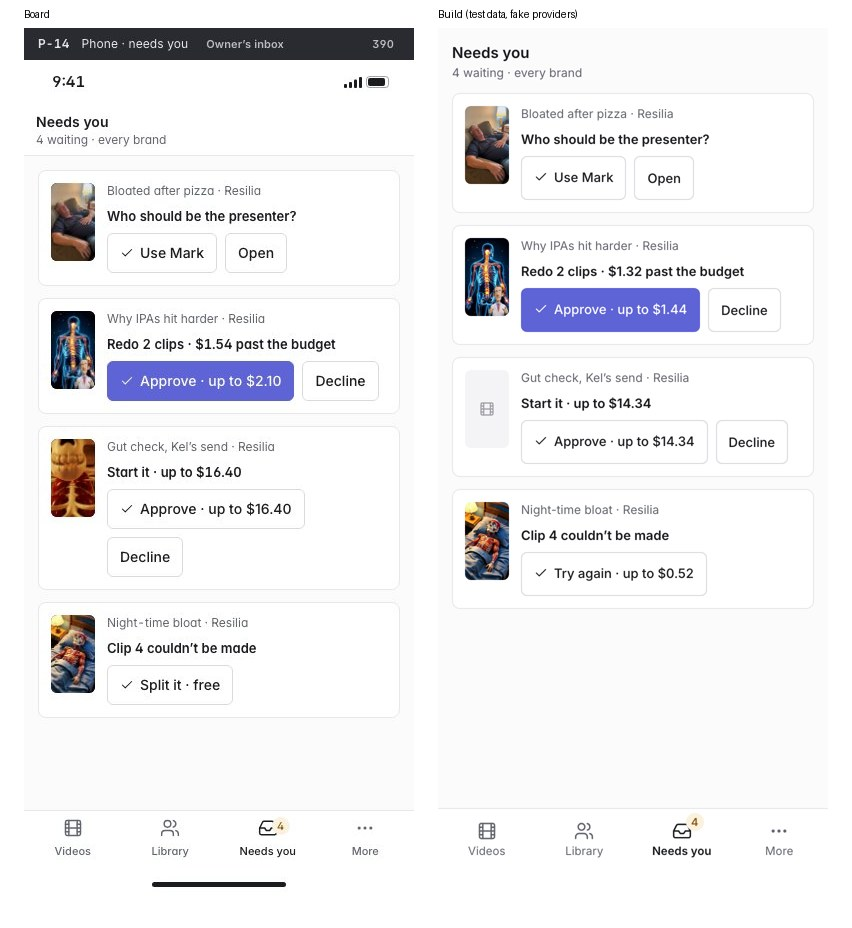
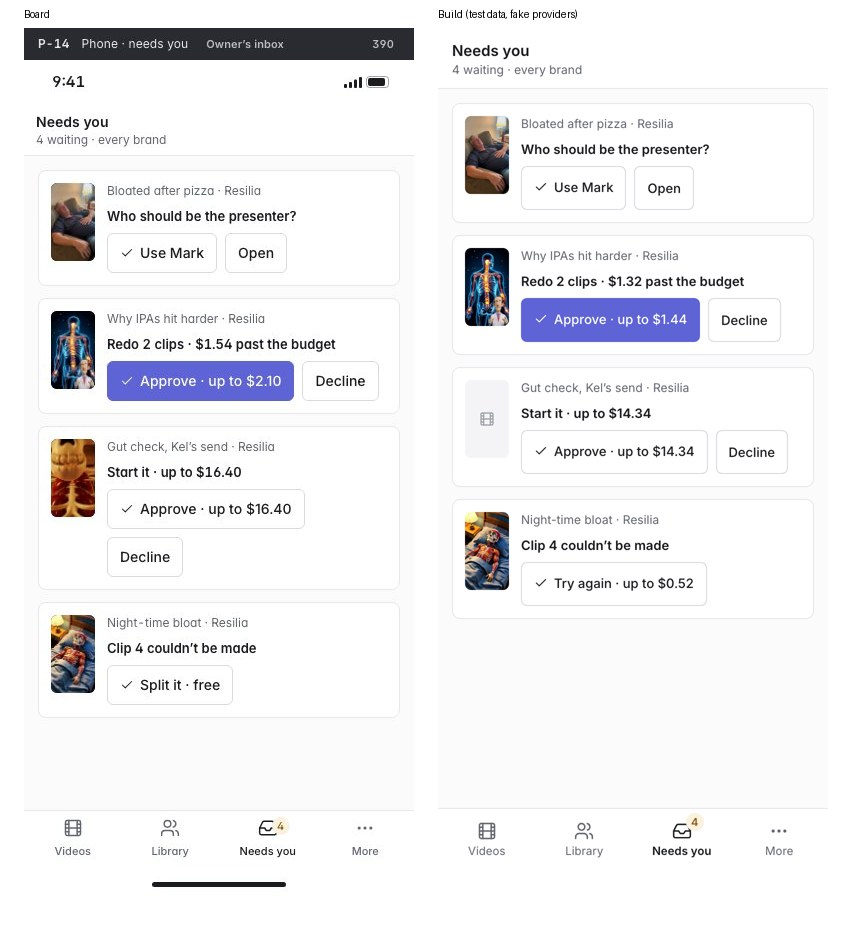
Needs you: P-14's header bar, the first approvable card gets the indigo press, a run still going isn't stuck, Usage counts Needs you's Money
QA on #1348: P-14 draws its title and line over a hairline; the indigo press goes to the first
money card the owner can approve; a take that fails while its run goes on is left to the
director; Usage's "Waiting for your OK" reads Needs you's Money cards, so the two agree, and
useHeld goes; no "Use option N" for options the card doesn't draw; curly apostrophes.

diff --git a/web/src/approvals/needsyou.test.tsx b/web/src/approvals/needsyou.test.tsx
@@ -89,6 +89,14 @@ test("answering a question here is the same answer as in the chat: Use Mark, or 
   expect(screen.getByRole("link", { name: "Open the chat: Bloated after pizza" })).toHaveAttribute("href", "/b/1/videos/11");
 });
 
+test("the one indigo press is the first money card the owner can approve", async () => {
+  setViewport(1440);
+  const theirs = { ...budget, ask: { ...budget.ask, id: 104, can: [] } }; // an editor's own: nothing to press here
+  fakeServer({ ...base, "GET /needs-you": [200, { ...inbox, money: [theirs, start] }] });
+  renderApp("/approvals");
+  expect((await screen.findByRole("button", { name: "Approve and start" })).className).toContain("bg-accent");
+});
+
 test("money presses answer the card: Approve, Decline (keeps it as it is), and Approve and start an editor's send", async () => {
   setViewport(1440);
   const calls = fakeServer({ ...base, "POST /asks/102/answer": [200, budget.ask], "POST /asks/103/answer": [200, start.ask] });
@@ -118,15 +126,34 @@ test("a stuck video's one-click fix runs the same press as its card in the chat"
   await vi.waitFor(() => expect(calls.some((c) => c.key === "POST /projects/15/clips/40/generate")).toBe(true));
 });
 
+test("a stopped run carries on, and a failed still is drawn again, each at its price", async () => {
+  setViewport(1440);
+  const carry = { ...stuck, video: video(16, "Gut glow-up"), what: "The director stopped", fix: { kind: "carry_on", label: "Carry on", price: "$10.74", clip_id: null, frame_id: null, problem: null } };
+  const redraw = { ...stuck, video: video(17, "3 signs your gut is angry"), what: "Clip 2's still couldn’t be made", fix: { kind: "redraw", label: "Draw it again", price: "$0.04", clip_id: null, frame_id: 8, problem: null } };
+  const calls = fakeServer({
+    ...base,
+    "GET /needs-you": [200, { ...inbox, questions: [], money: [], stuck: [carry, redraw] }],
+    "POST /projects/16/director": [201, {}],
+    "POST /projects/17/storyboard/frames/8/render": [201, { id: 3 }],
+  });
+  renderApp("/approvals");
+  await userEvent.click(await screen.findByRole("button", { name: "Carry on · up to $10.74" }));
+  await vi.waitFor(() => expect(calls.some((c) => c.key === "POST /projects/16/director")).toBe(true));
+  await userEvent.click(screen.getByRole("button", { name: "Draw it again · up to $0.04" }));
+  await vi.waitFor(() => expect(calls.some((c) => c.key === "POST /projects/17/storyboard/frames/8/render")).toBe(true));
+});
+
 test("a press held outside any video waits under Money, and a link to it lands on it", async () => {
   setViewport(1440);
   const send = { job_id: 50, brand: resilia, what: "Gut · song", made_by: "Kel", up_to: price(0.8), held: "Waiting for the owner's OK: songs on a script.", at: ago(5), script_id: 7 };
-  const calls = fakeServer({ ...base, "GET /needs-you": [200, { ...inbox, total: 1, questions: [], money: [], stuck: [], sends: [send] }], "POST /jobs/50/decline": [200, {}] });
+  const calls = fakeServer({ ...base, "GET /needs-you": [200, { ...inbox, total: 1, questions: [], money: [], stuck: [], sends: [send] }], "POST /jobs/50/decline": [200, {}], "POST /jobs/50/approve": [200, {}] });
   renderApp("/approvals?job=50");
   expect(await screen.findByRole("heading", { name: "Gut · song · up to $0.80" })).toBeInTheDocument();
   expect(document.getElementById("job-50")).toHaveFocus();
   expect(screen.getByRole("button", { name: "Approve · up to $0.80" }).className).toContain("bg-accent");
   expect(screen.getByRole("link", { name: "Read the script" })).toHaveAttribute("href", "/b/1/scripts/7");
+  await userEvent.click(screen.getByRole("button", { name: "Approve · up to $0.80" }));
+  await vi.waitFor(() => expect(calls.some((c) => c.key === "POST /jobs/50/approve")).toBe(true));
   await userEvent.click(screen.getByRole("button", { name: "Decline" }));
   await vi.waitFor(() => expect(calls.find((c) => c.key === "POST /jobs/50/decline")?.body).toEqual({ reason: "" }));
 });
@@ -136,6 +163,7 @@ test("P-14: on a phone, every card in one list with its short presses, \"4 waiti
   fakeServer(base);
   renderApp("/approvals");
   expect(await screen.findByText("4 waiting · every brand")).toBeInTheDocument();
+  expect(screen.getByRole("heading", { name: "Needs you", level: 1 }).closest("header")).toHaveClass("border-b"); // P-14's header bar
   expect(screen.queryByRole("radiogroup", { name: "Brand" })).toBeNull();
   expect(screen.queryByRole("heading", { level: 2 })).toBeNull();
   expect(screen.getByRole("heading", { name: "Redo 2 clips · $1.54 past the budget" })).toBeInTheDocument();

diff --git a/web/src/approvals/NeedsYouPage.tsx b/web/src/approvals/NeedsYouPage.tsx
@@ -135,8 +135,7 @@ function Question({ row, phone }: { row: Row; phone: boolean }) {
   const press = usePress("Answered. The director carries on.");
   const pictures = [...a.saved].sort((x, y) => Number(y.id === a.pick) - Number(x.id === a.pick)).slice(0, 4); // the pick first
   const story = a.kind === "story" ? a.choices : [];
-  const made = a.state === "ready" ? a.options.filter((o) => o.file_id != null) : [];
-  const first = story.length ? (a.pick ?? null) : made.length ? null : (pictures.find((o) => o.id === a.pick)?.id ?? null);
+  const first = story.length ? (a.pick ?? null) : a.options.length ? null : (pictures.find((o) => o.id === a.pick)?.id ?? null); // options made: picked in the chat
   const [picked, setPicked] = useState<string | null>(first);
   const option = pictures.find((o) => o.id === picked);
   const can = (how: string) => a.can.includes(how);
@@ -163,11 +162,6 @@ function Question({ row, phone }: { row: Row; phone: boolean }) {
         {use && (
           <Button variant="secondary" busy={press.isPending} onClick={() => press.mutate(answer(a.id, use.body))}>
             <Label icon={Check}>{use.label}</Label>
-          </Button>
-        )}
-        {!use && made.length > 0 && can("option") && (
-          <Button variant="secondary" busy={press.isPending} onClick={() => press.mutate(answer(a.id, { how: "option", option: made[0].index }))}>
-            <Label icon={Check}>Use option {made[0].index + 1}</Label>
           </Button>
         )}
         <OpenChat to={chat(row.brand.id, row.video.id)} phone={phone} name={row.video.title} />
@@ -323,14 +317,15 @@ export function NeedsYouPage() {
   if (q.isError || !q.data)
     return (
       <main className={`mx-auto w-full max-w-[860px] ${pad}`}>
-        <Banner title="Couldn't load what needs you." action={<Button variant="secondary" onClick={() => void q.refetch()}>Try again</Button>}>
+        <Banner title="Couldn’t load what needs you." action={<Button variant="secondary" onClick={() => void q.refetch()}>Try again</Button>}>
           Check your connection.
         </Banner>
       </main>
     );
   const d: Out = q.data;
   const shown = d.questions.length + d.money.length + d.sends.length + d.stuck.length;
-  const main = d.money[0]?.ask.can.some((c) => c === "approve" || c === "make_it") ? `ask-${d.money[0].ask.id}` : d.sends[0] ? `job-${d.sends[0].job_id}` : null;
+  const first = d.money.find((r) => r.ask.can.some((c) => c === "approve" || c === "make_it"));
+  const main = first ? `ask-${first.ask.id}` : d.sends[0] ? `job-${d.sends[0].job_id}` : null; // the one indigo press
   const named = d.brands.find((b) => b.id === brand)?.name;
   const filter = (
     <div role="radiogroup" aria-label="Brand" className="inline-flex gap-0.5 rounded-md bg-surface-2 p-0.5">
@@ -348,13 +343,15 @@ export function NeedsYouPage() {
       {!phone && (
         <header className="flex h-[52px] shrink-0 items-center border-b border-border bg-surface px-5 text-[13px] font-semibold">Needs you</header>
       )}
+      {phone && (
+        // P-14's header: the title and its line over a hairline, above the list.
+        <header className="flex shrink-0 flex-col border-b border-border bg-surface px-3.5 pb-2.5 pt-3">
+          <h1 className="text-[15px] font-semibold leading-[22px]">Needs you</h1>
+          <p className="text-xs text-muted">{d.total} waiting · every brand</p>
+        </header>
+      )}
       <main className={`mx-auto flex w-full flex-col ${phone ? "gap-3 p-3.5" : "max-w-[908px] gap-4 px-6 py-6"}`}>
-        {phone ? (
-          <div className="flex flex-col">
-            <h1 className="text-[15px] font-semibold">Needs you</h1>
-            <p className="text-xs text-muted">{d.total} waiting · every brand</p>
-          </div>
-        ) : (
+        {phone ? null : (
           <>
             <div className="flex flex-wrap items-center gap-3">
               <h1 className="text-[22px] font-semibold leading-[30px] tracking-[-0.012em]">Needs you</h1>
@@ -370,7 +367,7 @@ export function NeedsYouPage() {
         )}
         {shown === 0 ? (
           <EmptyState icon={Inbox} title={named ? `Nothing needs you in ${named}.` : "Nothing needs you."}>
-            The director's questions, budget OKs and stuck videos show here, across every brand.
+            The director’s questions, budget OKs and stuck videos show here, across every brand.
           </EmptyState>
         ) : (
           <>

diff --git a/web/src/usage/UsagePage.tsx b/web/src/usage/UsagePage.tsx
@@ -4,7 +4,7 @@ import { useQuery } from "@tanstack/react-query";
 import { api, must } from "../api/client";
 import type { components } from "../api/schema";
 import { Badge, Banner, Button, buttonClass, creditsLabel, EmptyState, wholeCredits, PageTop, Skeleton } from "../components";
-import { useHeld } from "../approvals/useHeld";
+import { useNeedsYou } from "../approvals/NeedsYouPage";
 import { useRail } from "../useMedia";
 import { useRestoreBrand } from "../brand/ArchiveBrand";
 import { ByFormat } from "./ByFormat";
@@ -37,8 +37,10 @@ export function UsagePage() {
   const restoreBrand = useRestoreBrand();
   const summary = useSummary("month", month);
   const rows = useBrandRows({ period: "month", month, q: "", archived, sort: "spend" });
-  const held = useHeld();
-  const waitingCredits = held.heldJobs.reduce((n, j) => n + (j.freestyle?.up_to ?? j.credits), 0); // as Needs you counts it
+  const inbox = useNeedsYou().data; // its Money cards: what waits for the owner's OK, as Needs you shows it
+  const oks = inbox ? [...inbox.money.map((r) => r.ask.money?.up_to.credits ?? 0), ...inbox.sends.map((s) => s.up_to.credits)] : [];
+  const held = { count: oks.length };
+  const waitingCredits = oks.reduce((n, c) => n + c, 0);
   if (summary.error?.message === "404") return <Navigate to="/usage/mine" replace />; // an editor: their own credits (OR4)
   const items = rows.data?.pages.flatMap((p) => p.items) ?? [];
   const f = summary.data;
@@ -63,7 +65,7 @@ export function UsagePage() {
             <Stat label={thisMonth ? "Spent this month" : `Spent in ${label}`} link={<span className="text-muted"><Money value={f.spend_usd} estimated={f.spend_estimated} /></span>}>
               {count(f.spend_credits)} credits
             </Stat>
-            <Stat label="Waiting for your OK" link={held.count > 0 && <Link to="/approvals" className="inline-flex min-h-11 items-center text-accent-text hover:underline lg:min-h-0">{held.count} request{held.count === 1 ? "" : "s"} in Needs you</Link>}>
+            <Stat label="Waiting for your OK" link={held.count > 0 && <Link to="/approvals" className="inline-flex min-h-11 items-center text-accent-text hover:underline lg:min-h-0">{held.count} in Needs you</Link>}>
               {held.count === 0 ? "Nothing" : waitingCredits > 0 ? `up to ${creditsLabel(waitingCredits)}` : `${held.count} request${held.count === 1 ? "" : "s"}`}
             </Stat>
             <Stat label="The director's own time" link={<span className="text-muted">Outside the credit budget</span>}>

diff --git a/web/src/usage/usage.test.tsx b/web/src/usage/usage.test.tsx
@@ -298,12 +298,14 @@ test("on a phone the line reads '0 credits' before the badge, and one credit is 
 
 test("Usage (v5 D_Usage): what waits for the owner's OK is a card that links to Needs you, and each brand's share of the spend is a bar", async () => {
   setViewport(1440);
-  const held = { id: 50, kind: "video", project_id: null, credits: 4, status: "needs_owner_approval", created_at: new Date().toISOString(), finished_at: null, prompt_summary: "", step: null, brand_id: 1, freestyle: { id: 4, title: "Bo", type: "dialogue", said: "", change: false, up_to: 204, spent: 0 } };
-  fakeServer({ ...base, "GET /jobs": [200, [held]], "GET /usage/summary": [200, summary], "GET /usage/brands": [200, brands([row()])] });
+  // Needs you's Money: a start card (its whole run, up to 204) and a held press outside any video (up to 6).
+  const start = { video: {}, brand: { id: 1, name: "fomo" }, ask: { id: 7, kind: "start", can: ["make_it"], money: { up_to: { credits: 204, usd: 12.24 } } } };
+  const send = { job_id: 50, brand: null, what: "Quick clip", made_by: "Sam", up_to: { credits: 6, usd: 0.36 }, held: "", at: new Date().toISOString(), script_id: null };
+  fakeServer({ ...base, "GET /needs-you": [200, { total: 2, brands: [], questions: [], money: [start], sends: [send], stuck: [] }], "GET /usage/summary": [200, summary], "GET /usage/brands": [200, brands([row()])] });
   open();
   const totals = await screen.findByRole("group", { name: "Totals" });
-  expect(await within(totals).findByText("up to 204 credits")).toBeInTheDocument();
-  expect(within(totals).getByRole("link", { name: "1 request in Needs you" })).toHaveAttribute("href", "/approvals");
+  expect(await within(totals).findByText("up to 210 credits")).toBeInTheDocument();
+  expect(within(totals).getByRole("link", { name: "2 in Needs you" })).toHaveAttribute("href", "/approvals");
   expect(await screen.findByRole("img", { name: "62% of the month's credits" })).toBeInTheDocument(); // 52.30 of 84.12
 });
 

diff --git a/web/src/approvals/held.test.tsx b/web/src/approvals/held.test.tsx
@@ -6,9 +6,8 @@ import { ToastProvider } from "../toast";
 import { fakeServer } from "../test/server";
 import { setViewport } from "../test/viewport";
 import { MemoryRouter } from "react-router-dom";
-import { HeldRequests, askedAgo, stepOf, type HeldWhere } from "./HeldRequests";
+import { HeldRequests, askedAgo, stepOf, type HeldWhere, type Job } from "./HeldRequests";
 import { PLURAL, STEPS } from "./steps";
-import type { Job } from "./useHeld";
 
 const job = (o: object = {}) => ({ id: 50, kind: "video", project_id: 9, script_id: null, credits: 27, status: "needs_owner_approval", created_at: new Date().toISOString(), finished_at: null, prompt_summary: "", step: "clip_take", error: "", held: "That's more than this video's budget.", declined: false, created_by_name: "Eli", waiting: "", auto: false, output: null, ...o });
 function show(where: HeldWhere) {

diff --git a/web/src/approvals/HeldRequests.tsx b/web/src/approvals/HeldRequests.tsx
@@ -7,8 +7,10 @@ import { serverTime } from "../time";
 import { useMe } from "../auth/useMe";
 import { useToast } from "../toast";
 import { PLURAL, STEPS } from "./steps";
-import type { Job } from "./useHeld";
+import type { components } from "../api/schema";
 import { refreshJobs } from "../jobs/refresh";
+
+export type Job = components["schemas"]["JobOut"];
 
 /** Which of my requests belong on this page: a video's, a script's, or my Quick clips (no video, no script). */
 export type HeldWhere = { projectId: number } | { scriptId: number } | { quick: true };

diff --git a/web/src/approvals/MyRequestsPage.tsx b/web/src/approvals/MyRequestsPage.tsx
@@ -6,8 +6,7 @@ import { fileUrl } from "../api/upload";
 import { Button, EmptyState, pressLabel, useToast } from "../components";
 import { refreshJobs } from "../jobs/refresh";
 import { serverTime } from "../time";
-import { useMyRequests, what } from "./HeldRequests";
-import type { Job } from "./useHeld";
+import { useMyRequests, what, type Job } from "./HeldRequests";
 
 const time = (iso: string) => serverTime(iso).toLocaleTimeString(undefined, { hour: "2-digit", minute: "2-digit", hourCycle: "h23" });
 const weekAgo = () => Date.now() - 7 * 24 * 3600_000;

diff --git a/server/tests/test_needs_you_inbox.py b/server/tests/test_needs_you_inbox.py
@@ -86,3 +86,20 @@ def test_a_press_held_outside_any_video_waits_in_needs_you(app, db, owner, edito
     assert owner.post(f"/jobs/{job.id}/approve").status_code == 200
     assert owner.get("/needs-you").json()["sends"] == []
     assert Decimal(str(send["up_to"]["credits"])) >= job.credits  # never below the charge
+
+
+def test_a_take_that_fails_while_its_run_goes_on_is_the_directors_not_stuck(app, db, owner, editor):
+    from tests.test_director import _made, _run
+
+    pid = _made(app, owner, editor, db)
+    owner.post(f"/projects/{pid}/director")
+    _run(app, db, ticks=2)
+    project = db.get(Project, pid)
+    run = director.turns(db, project)[-1].input[director.RUN]
+    assert run_progress.record(db, project, None)["ended_at"] is None  # still going
+    first = db.query(Job).filter_by(project_id=pid).first()
+    db.add(Job(workspace_id=first.workspace_id, created_by_id=first.created_by_id, kind="video",
+               provider="fake", project_id=pid, credits=Decimal("3"), status=JobStatus.failed,
+               input={"step": "clip_take", director.RUN: run}, error="busy"))  # fmt: skip
+    db.commit()
+    assert [s for s in owner.get("/needs-you").json()["stuck"] if s["video"]["id"] == pid] == []

diff --git a/server/app/routes/needs_you.py b/server/app/routes/needs_you.py
@@ -187,6 +187,8 @@ def _stuck(db: Session, user: User) -> list[StuckVideo]:
         if job.status != JobStatus.failed and not stopped:
             continue
         run = run_progress.record(db, p, user) if job.input.get(director.RUN) else None
+        if run and run["ended_at"] is None:  # its run goes on: the director deals with it
+            continue
         if run and (said := run.get("failed")):  # its run's stuck card: the same fix
             first = said["fixes"][0]
             fix = StuckFix(kind=first["kind"], label=first["label"], price=first.get("price"),
